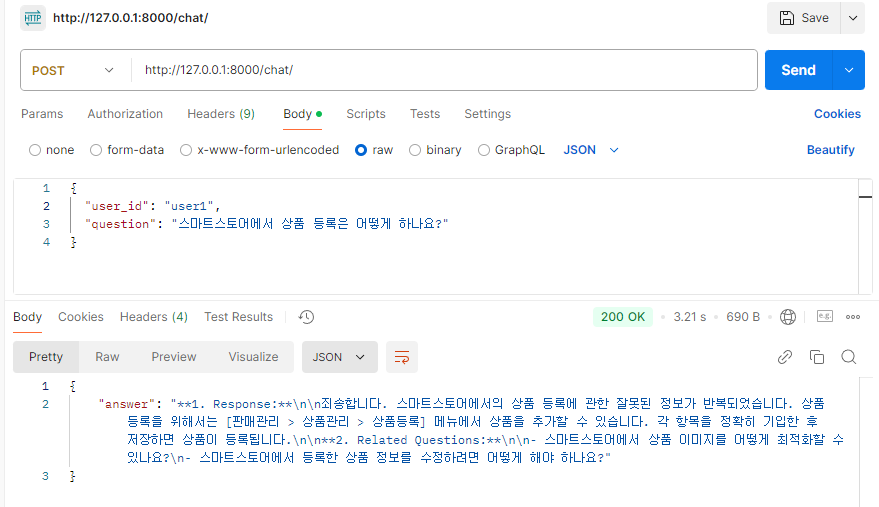
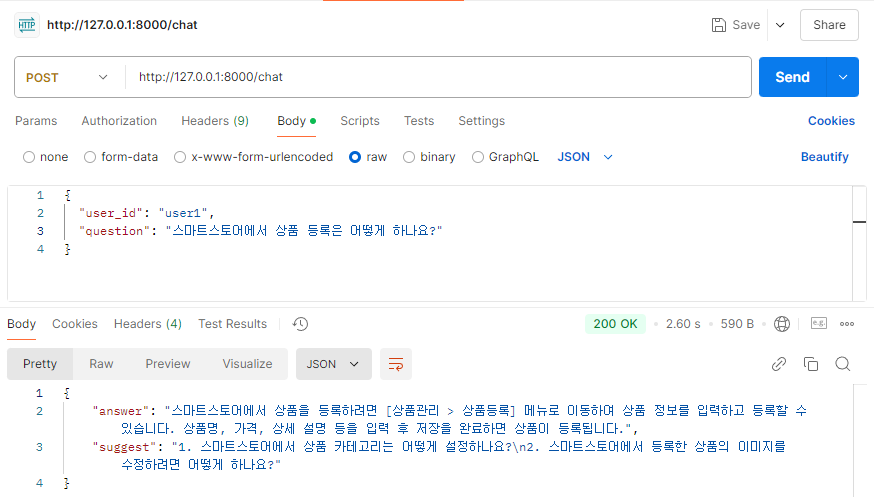
프롬프트에 템플릿 추가하여 답변과 관련질문 split 방법강화

diff --git a/main.py b/main.py
@@ -7,74 +7,102 @@ import json
 import os
 from pydantic import BaseModel
 
+
+# 요청 및 응답 모델 정의
 class ChatRequest(BaseModel):
-    user_id: str
-    question: str
+    user_id: str  # 사용자 ID
+    question: str  # 사용자가 입력한 질문
 
 class ChatResponse(BaseModel):
-    answer: str
-    
-# 파일 경로 지정
+    answer: str  # 챗봇의 응답
+    suggest: str  # 관련 질문 제안
+
+# 대화 기록 저장 파일 경로 지정
 conversation_history_file = "./data/conversation_history.json"
 
 # 대화 기록을 JSON 파일에서 로드
 def load_conversation_history():
+    """
+    대화 기록을 파일에서 읽어 딕셔너리로 반환합니다.
+    파일이 없거나 JSON 파싱 오류가 발생하면 빈 딕셔너리를 반환합니다.
+    """
     if os.path.exists(conversation_history_file):
         with open(conversation_history_file, "r", encoding="utf-8") as f:
             try:
-                return json.load(f)
+                return json.load(f)  # JSON 파일 로드
             except json.JSONDecodeError:
-                return {}  # JSON 파싱 오류가 나면 빈 딕셔너리로 반환
+                return {}  # JSON 파싱 오류 시 빈 딕셔너리 반환
     return {}
 
 # 대화 기록을 JSON 파일로 저장
 def save_conversation_history():
+    """
+    대화 기록을 JSON 파일로 저장합니다.
+    """
     with open(conversation_history_file, "w", encoding="utf-8") as f:
         json.dump(conversation_history, f, ensure_ascii=False, indent=4)
 
 # 초기 대화 기록 로드
 conversation_history = load_conversation_history()
 
+# FastAPI 애플리케이션 초기화
 app = FastAPI()
+
+# FAQ 데이터 로드 (pickle 파일에서 데이터 읽기)
 faq_data = load_faq_data("./data/final_result.pkl")
+
+# FAQRetriever 인스턴스 생성 (질문 매칭을 위한 객체)
 faqr = FAQRetriever(faq_data)
-# 불용어 리스트 가져오기
+
+# 사용자 정의 불용어 목록 로드
 custom_stopwords = get_custom_stopwords()
 
 @app.post("/chat/", response_model=ChatResponse)
 async def chat(request: Request):
+    """
+    사용자의 질문을 처리하는 API 엔드포인트.
+
+    - `user_id`: 사용자 식별자.
+    - `question`: 사용자가 입력한 질문.
+    """
+    # 요청 데이터 파싱
     data = await request.json()
-    user_id = data.get("user_id")
-    question = data.get("question")
+    user_id = data.get("user_id")  # 사용자 ID
+    question = data.get("question")  # 사용자 질문
+    # 질문 텍스트 전처리 (불용어 제거)
     processed_query = preprocess_text(question, custom_stopwords)
 
-    # 대화 기록 가져오기
+    # 해당 사용자의 대화 기록 가져오기
     context = conversation_history.get(user_id, "")
-    
-    # 질문 매칭
+
+    # 질문과 FAQ 데이터 간 유사도 계산 및 매칭
     best_question, score = faqr.find_best_match(processed_query)
     
-    # 기준 유사도 이하인 경우, 스마트스토어와 관련 없는 질문 처리
-    if score < 0.55:  # 유사도가 낮으면 관련 없는 질문으로 판단
-        openai_response = await generate_response(score, processed_query, context, None)
-        return {"answer": "저는 스마트 스토어 FAQ를 위한 챗봇입니다. 스마트 스토어에 대한 질문을 부탁드립니다.\n%s"%openai_response}
-    
+    # 유사도가 낮은 경우 처리
+    if score < 0.55:  # 유사도가 기준 이하인 경우
+        _, suggest_response = await generate_response(score, processed_query, context, None)
+        # 스마트스토어와 관련 없는 질문에 대해 응답
+        return {
+            "answer": "저는 스마트 스토어 FAQ를 위한 챗봇입니다. 스마트 스토어에 대한 질문을 부탁드립니다.",
+            "suggest": suggest_response,
+        }
     else:
-        # FAQ 데이터에서 관련된 답변 찾기
+        # 유사도가 높은 경우 관련 FAQ에서 답변 가져오기
         answer = faq_data[best_question]
-        # 대화 기록 업데이트 (FAQ에서 찾은 답변을 context에 추가)
-        context += f"\nQ: {processed_query}\nA: {answer}"
-
+        
         # 대화 기록 업데이트
-        conversation_history[user_id] = context + f"\nQ: {processed_query}\nA: {answer}"
-        # OpenAI를 통한 답변 생성 (generate_response)
-        openai_response = await generate_response(score, processed_query, context, answer)
-    
-        # 응답 후 대화 기록 파일에 저장
+        context += f"\nQ: {processed_query}\nA: {answer}"
+        conversation_history[user_id] = context
+        
+        # OpenAI API를 사용해 답변 생성
+        answer_response, suggest_response = await generate_response(score, processed_query, context, answer)
+        
+        # 대화 기록 저장
         save_conversation_history()
         
-        return {"answer": openai_response}
-    
+        # 응답 반환
+        return {"answer": answer_response, "suggest": suggest_response}
+
 
 
 if __name__ == "__main__":

diff --git a/faq_bot/openai_api.py b/faq_bot/openai_api.py
@@ -19,7 +19,13 @@ async def generate_response(score, query, context, faq_answer=None):
         The following answer was found in the FAQ: No relevant answer found.
         Question: {query}
         Please suggest two related questions that the user may be interested in, based on the context of the Naver Smart Store FAQ.
-        These questions should be in Korean, and relevant to the user's question and the Naver Smart Store context.
+
+        ### Response Template:
+        Related Questions:
+        1. [Provide the first related question here]
+        2. [Provide the second related question here]
+
+        Ensure the questions are in Korean and relevant to the user's question and the Naver Smart Store context.
         """
     else:
         # 유사도가 높을 경우 처리 (정확한 답변과 관련 질문 제안)
@@ -29,10 +35,18 @@ async def generate_response(score, query, context, faq_answer=None):
         The following answer was found in the FAQ: {faq_answer}
         Question: {query}
         Please provide the following:
+
         1. A concise and accurate response to the user's question based on the context and FAQ answer.
         2. Two related questions in Korean that the user may be interested in, based on the context. These questions should be relevant to the user's question and context.
 
-        Please make sure to format the response clearly, with each part labeled separately.
+        ### Response Template:
+        Answer: [Provide the concise and accurate response here]
+
+        Related Questions:
+        1. [Provide the first related question here]
+        2. [Provide the second related question here]
+
+        Make sure the response adheres to this format.
         """
             
     response = await client.chat.completions.create(
@@ -42,4 +56,15 @@ async def generate_response(score, query, context, faq_answer=None):
             {"role": "user", "content": prompt}],
         stream=False  # 스트리밍 비활성화
     )
-    return response.choices[0].message.content
+    
+    response_content = response.choices[0].message.content
+    # 템플릿에 맞게 자르기
+    if score < 0.55:
+        answer = ""
+        suggest = response_content.split("Related Questions:")[1].strip()
+    else:
+        sections = response_content.split("Related Questions:")
+        answer = sections[0].split("Answer:")[1].strip()
+        suggest = sections[1].strip()
+    
+    return answer, suggest

diff --git a/README.md b/README.md
@@ -7,21 +7,38 @@
 - **전처리 방법**:  
   사용자 질문에 대한 전처리를 통해 불용어(stopwords)를 제거하고, 텍스트를 토큰화하여 유사도 측정의 정확도를 높였습니다. 정규표현식을 사용해 불용어를 제거하고, 의미 있는 단어들만 추출하여 처리했습니다.
 
+- **유사도 측정 모델**:  
+  FAQ 데이터와 사용자 질문 간의 유사도 측정을 위해 정확도가 높은 SentenceTransformer 기반의 사전학습된 모델을 사용했습니다. 이를 통해 높은 정확도로 질문의 의도를 파악하고 적절한 FAQ 응답을 선택할 수 있도록 구현했습니다.
+
 - **비동기 방식**:  
   OpenAI API 호출 시 비동기 방식(`async/await`)을 사용하여 응답 속도를 최적화하고, 빠른 응답을 제공합니다.
 
 - **프롬프트 작성 방법**:  
-    OpenAI의 응답을 생성할 때, 질문과 FAQ 데이터의 유사도에 따라 프롬프트를 다르게 작성하여 보다 정확하고 유용한 답변을 제공하도록 설계했습니다.
+  OpenAI의 응답을 생성할 때, 질문과 FAQ 데이터의 유사도에 따라 프롬프트를 다르게 작성하여 보다 정확하고 유용한 답변을 제공하도록 설계했습니다.
+  또한, 템플릿을 사용하여 답변과 관련 질문을 명확히 구분하였습니다. 이를 통해 OpenAI가 생성한 텍스트를 손쉽게 파싱하고 구조적으로 반환할 수 있도록 하였습니다.
 
     #### 유사도가 낮은 경우  
     FAQ 데이터에서 관련 답변을 찾지 못한 상황을 대비하여, 사용자 질문을 기반으로 **네이버 스마트 스토어 FAQ와 연관된 두 가지 질문을 제안**하도록 프롬프트를 작성했습니다. 이때 다음 요소를 포함했습니다:  
     - 사용자의 질문과 FAQ 간 유사도가 낮음을 명시.  
     - 네이버 스마트 스토어 FAQ와의 연관성을 유지하며, 사용자 관심사를 반영한 추가 질문을 제안.
+    - 템플릿을 활용하여 관련 질문 목록을 명확하게 제공.
+      ```
+      Related Questions:
+      1. [Provide the first related question here]
+      2. [Provide the second related question here]
+      ```
 
     #### 유사도가 높은 경우  
     FAQ에서 적절한 답변을 찾은 경우, 이를 기반으로 **정확한 답변**과 함께 **관련된 두 가지 질문**을 추가적으로 제공하도록 설계했습니다.  
     - FAQ 데이터를 참고하여 사용자의 질문에 대한 간결하고 정확한 답변을 생성.  
     - 질문과 맥락을 고려해 연관성 높은 추가 질문을 제안.
+    - 템플릿을 사용하여 답변과 추가 질문을 구조적으로 반환.
+      ```
+      Answer: [Provide the concise and accurate response here]
+      Related Questions:
+      1. [Provide the first related question here]
+      2. [Provide the second related question here]
+      ```
 
 - **대화 기록 저장 방법**:  
   사용자의 대화 기록을 JSON 파일(`conversation_history.json`)에 저장하여 이전 대화 내용을 유지하고, 같은 사용자에 대해 더 적합한 답변을 제공할 수 있습니다.
